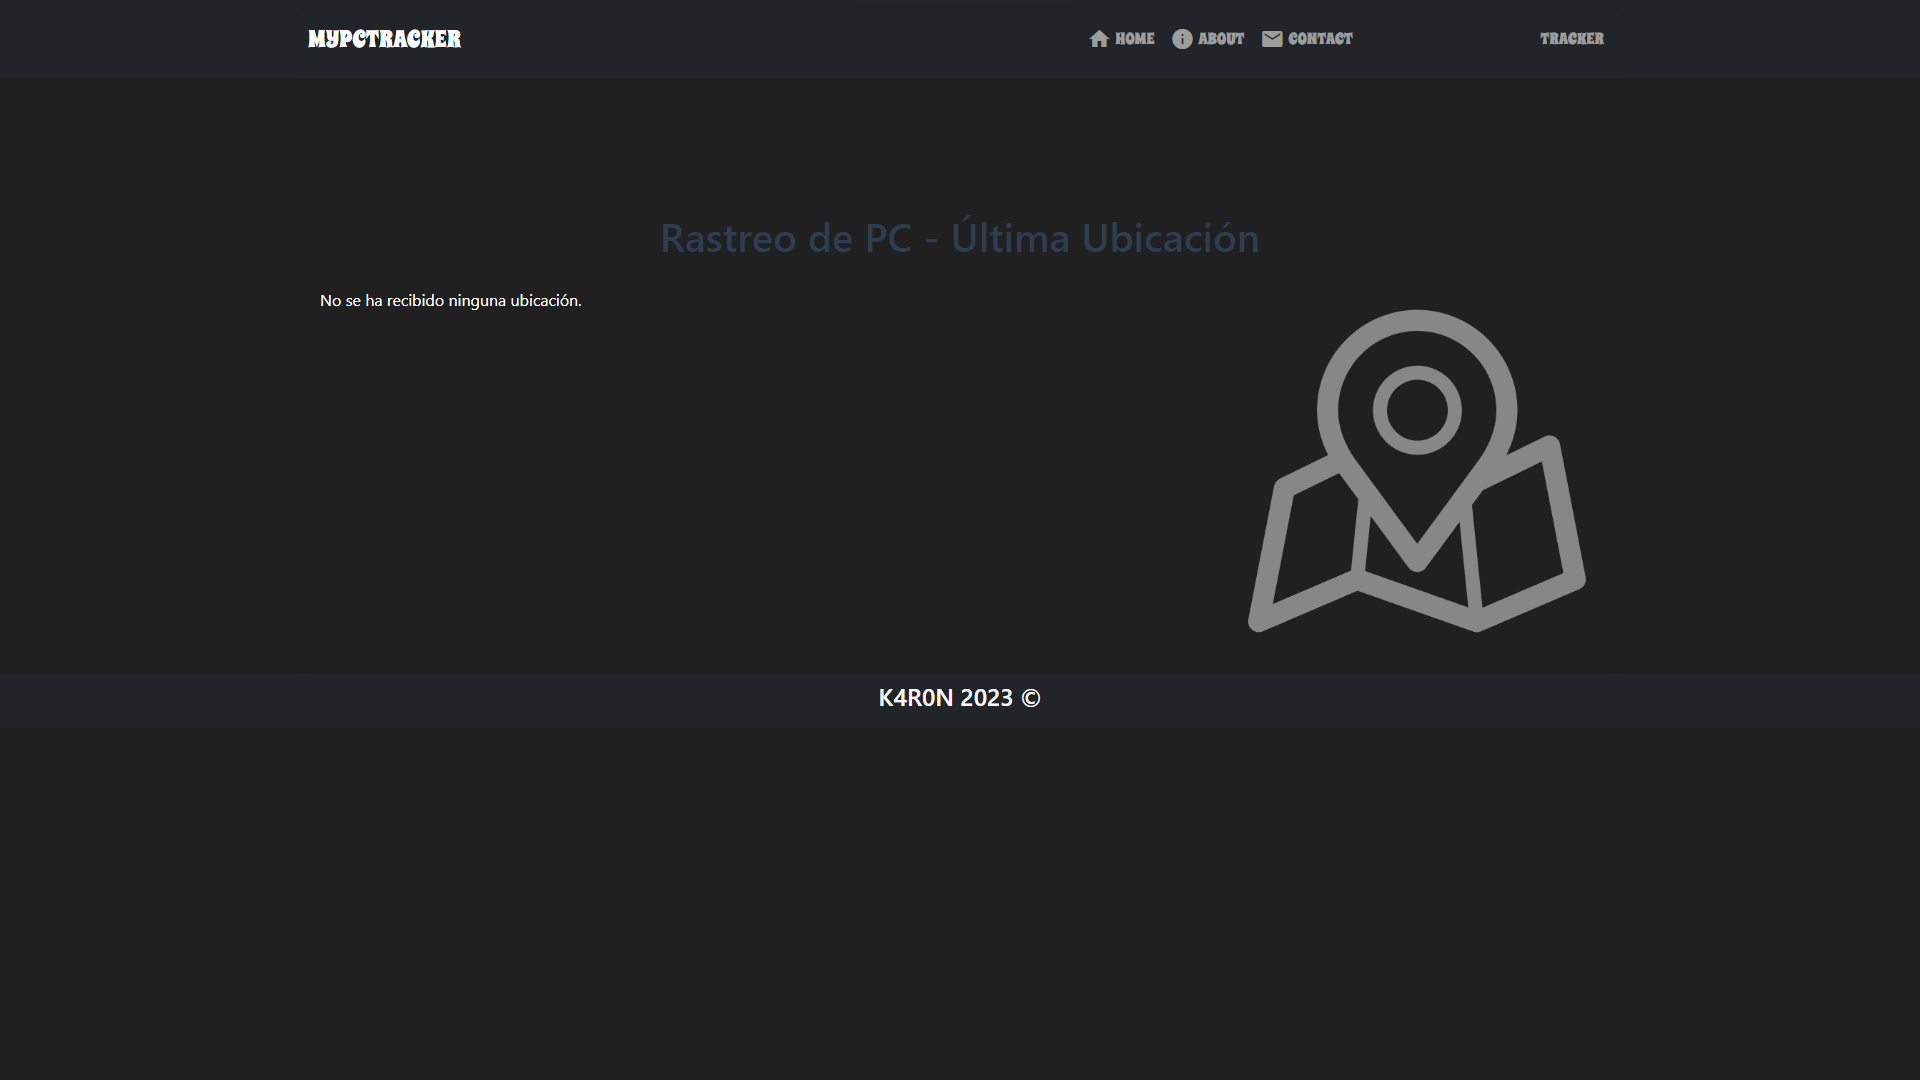
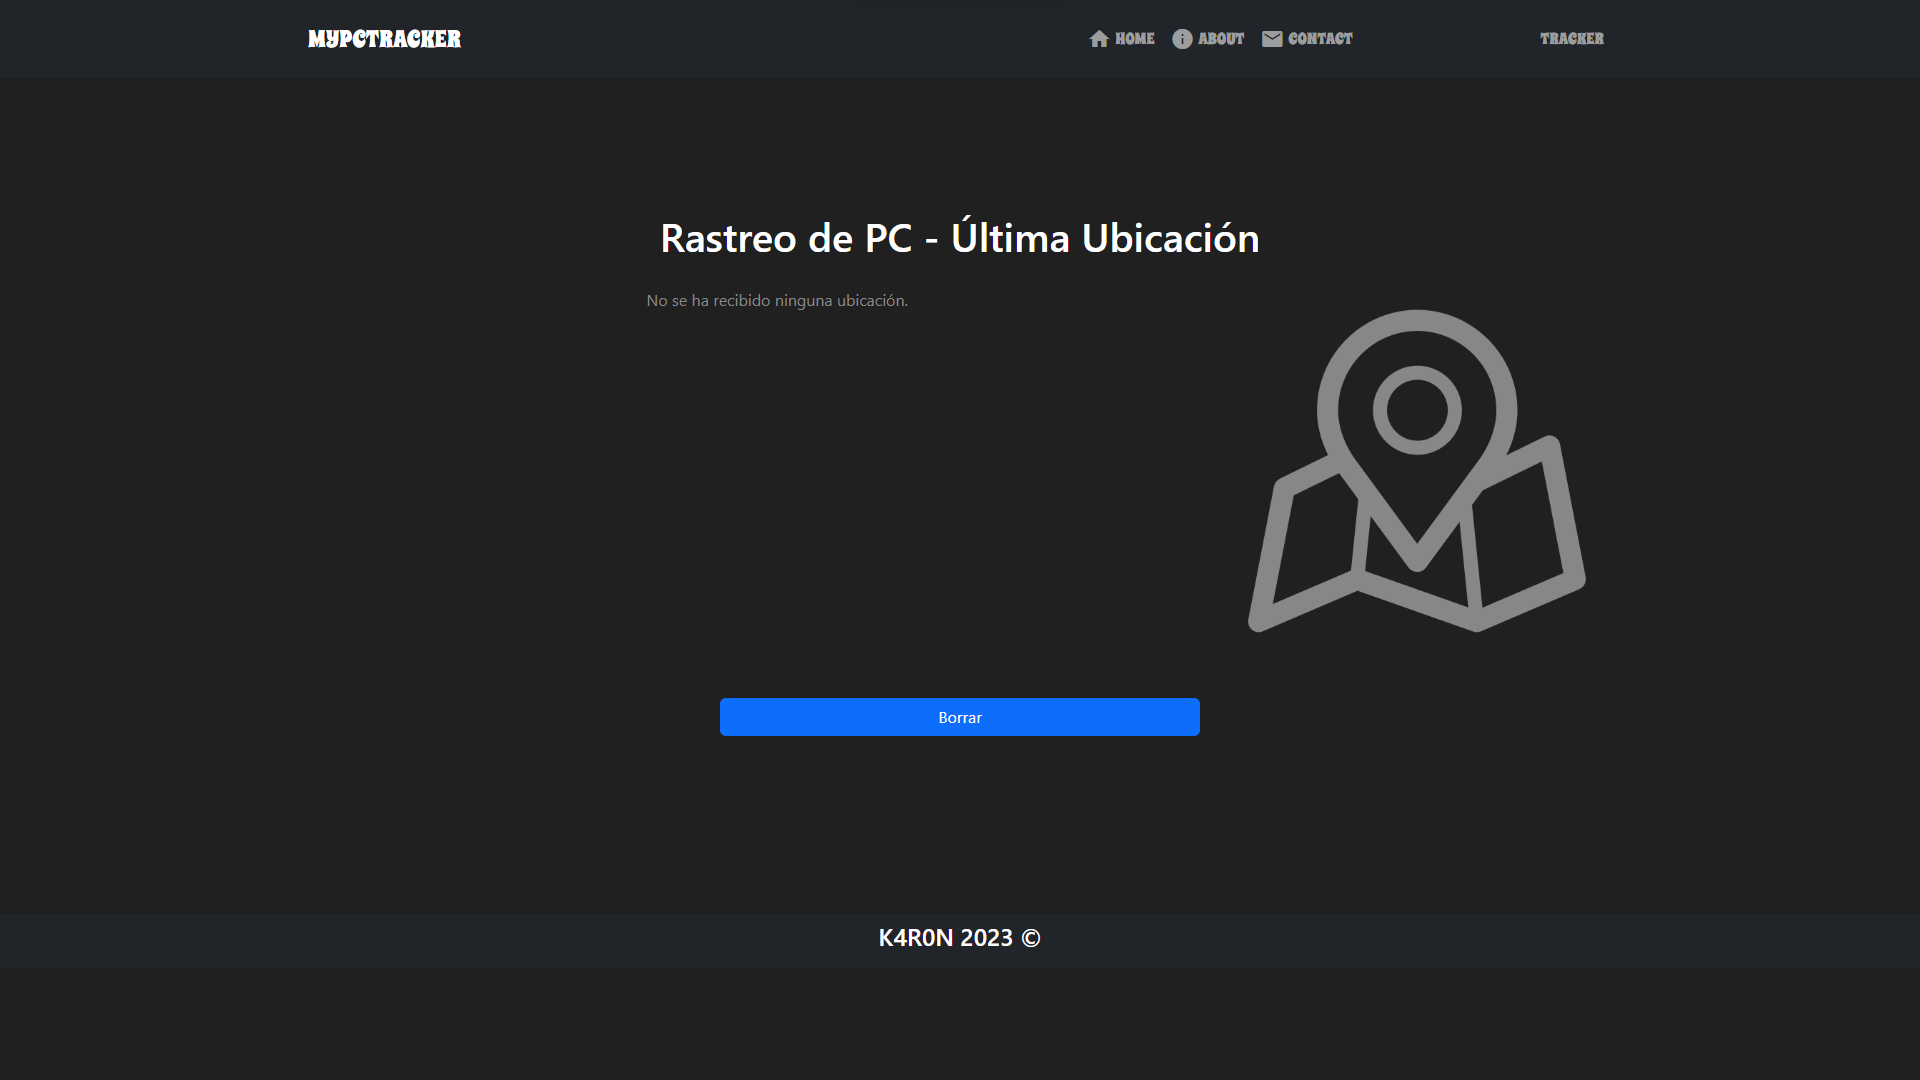
actualización 14/11/2023

diff --git a/src/index.js b/src/index.js
@@ -1,31 +1,48 @@
 import express from "express";
 import morgan from "morgan";
-import cors from 'cors'; // Importa el middleware cors
+import cors from 'cors';
 import { join, dirname } from "path";
 import { fileURLToPath } from "url";
-
-// Routes
+import bodyParser from "body-parser";
 import indexRoutes from "./routes/index.js";
+import { actualizarUltimaUbicacion } from "./locationStorage/locationStorage.js";
 
-// Initialize express
 const app = express();
 const __dirname = dirname(fileURLToPath(import.meta.url));
 
-// settings
 app.set("port", process.env.PORT || 3000);
 app.set("views", join(__dirname, "views"));
 app.set("view engine", "ejs");
 
-// middlewares
 app.use(morgan("dev"));
-app.use(cors()); // Usa el middleware cors
+app.use(cors());
+app.use(bodyParser.json());
 
-// routes
 app.use(indexRoutes);
 
-// static files
 app.use(express.static(join(__dirname, "public")));
 
-// listening the Server
-app.listen(app.get("port"));
-console.log("Server on port", app.get("port"));
+// Ruta para recibir datos de ubicación y enviar notificación
+app.post('/send-notification', (req, res) => {
+    const { title, message, deviceId, ubicacion } = req.body;
+
+    console.log('Datos recibidos:', JSON.stringify(req.body, null, 2));
+
+    // Actualiza la última ubicación utilizando la función de locationStorage.js
+    actualizarUltimaUbicacion({
+        title,
+        message,
+        deviceId,
+        ...ubicacion
+    });
+
+    // Aquí deberías implementar la lógica para enviar notificaciones al dispositivo con el ID único `deviceId`
+    // Puedes usar alguna librería de notificaciones push o enviar mensajes a través de un canal que tu dispositivo pueda escuchar
+
+    console.log(`Notificación enviada a dispositivo ${deviceId}: ${title} - ${message}`);
+    res.status(200).send('Notificación enviada');
+});
+
+app.listen(app.get("port"), () => {
+    console.log("Server on port", app.get("port"));
+});

diff --git a/src/routes/index.js b/src/routes/index.js
@@ -1,12 +1,7 @@
-// En src/routes/index.js
 import { Router } from "express";
-import bodyParser from "body-parser";
-import { obtenerUltimaUbicacion } from '../locationStorage/locationStorage.js';
+import { obtenerUltimaUbicacion, actualizarUltimaUbicacion } from '../locationStorage/locationStorage.js';
 
 const router = Router();
-
-// Middleware para analizar JSON
-router.use(bodyParser.json());
 
 router.get("/", (req, res) => {
     res.render("index", { title: "MYPCTRACKER" });
@@ -22,6 +17,16 @@ router.get("/contact", (req, res) => {
 
 // Ruta para mostrar la página "tracker.ejs"
 router.get("/tracker", (req, res) => {
+    const lastLocation = obtenerUltimaUbicacion();
+    res.render("tracker", { lastLocation });
+});
+
+// Ruta para borrar la última ubicación
+router.get("/borrar-ubicacion", (req, res) => {
+    // Actualiza la última ubicación a null
+    actualizarUltimaUbicacion(null);
+    
+    // Redirige de vuelta a la página de tracker
     const lastLocation = obtenerUltimaUbicacion();
     res.render("tracker", { lastLocation });
 });

diff --git a/src/locationStorage/locationStorage.js b/src/locationStorage/locationStorage.js
@@ -1,4 +1,3 @@
-// En src/locationStorage.js
 let lastLocation = null;
 
 // Función para obtener la última ubicación

diff --git a/README.md b/README.md
@@ -21,7 +21,7 @@ Asegúrate de tener Node.js y npm instalados en tu máquina antes de ejecutar el
 1. Clona este repositorio:
 
    ```bash
-   git clone https://github.com/tuusuario/mypctracker.git
+   git clone https://github.com/DJCARLOX/mypctracker.git
    cd mypctracker
 
 1. Instala las dependencias:
@@ -45,8 +45,9 @@ Asegúrate de tener Node.js y npm instalados en tu máquina antes de ejecutar el
 Para enviar la ubicación desde PowerShell, utiliza el siguiente script:
 
 ```powershell
-cls
 
+cls
+# Función para obtener la ubicación por geolocalización de IP
 function Get-IPAddressLocation {
     $IPAddress = (Invoke-RestMethod -Uri 'https://api64.ipify.org?format=json').ip
     $GeoData = (Invoke-RestMethod -Uri "https://ipapi.co/$IPAddress/json/")
@@ -63,14 +64,21 @@ function Get-IPAddressLocation {
     return $Location
 }
 
+# Obtener la ubicación
 $Ubicacion = Get-IPAddressLocation
+
+# Imprimir la ubicación en la consola antes de enviarla al servidor
+Write-Host "Ubicación a enviar al servicio web:"
+$Ubicacion | Format-Table
+
+# Enviar ubicación al servicio web
 
 $WebServiceUrl = "http://localhost:3000/send-notification"
 $NotificationData = @{
     title     = "Ubicacion del Portatil"
     message   = "Nueva ubicacion disponible."
-    deviceId  = "ID_UNICO_DE_TU_DISPOSITIVO"
-    ubicacion = $Ubicacion
+    deviceId  = "DJCARL0X"
+    ubicacion = $Ubicacion  # Enviar toda la ubicación como un objeto
 }
 
 try {
@@ -103,5 +111,9 @@ Recuerda reemplazar `"tuusuario"` y `"ID_UNICO_DE_TU_DISPOSITIVO"` con tus detal
 ## CAPTURAS
 
 ![Texto Alternativo](/src/public/img/index.png)
+
+![Texto Alternativo](/src/public/img/about.png)
+
+![Texto Alternativo](/src/public/img/contact.png)
 
 ![Texto Alternativo](/src/public/img/tracker.png)
